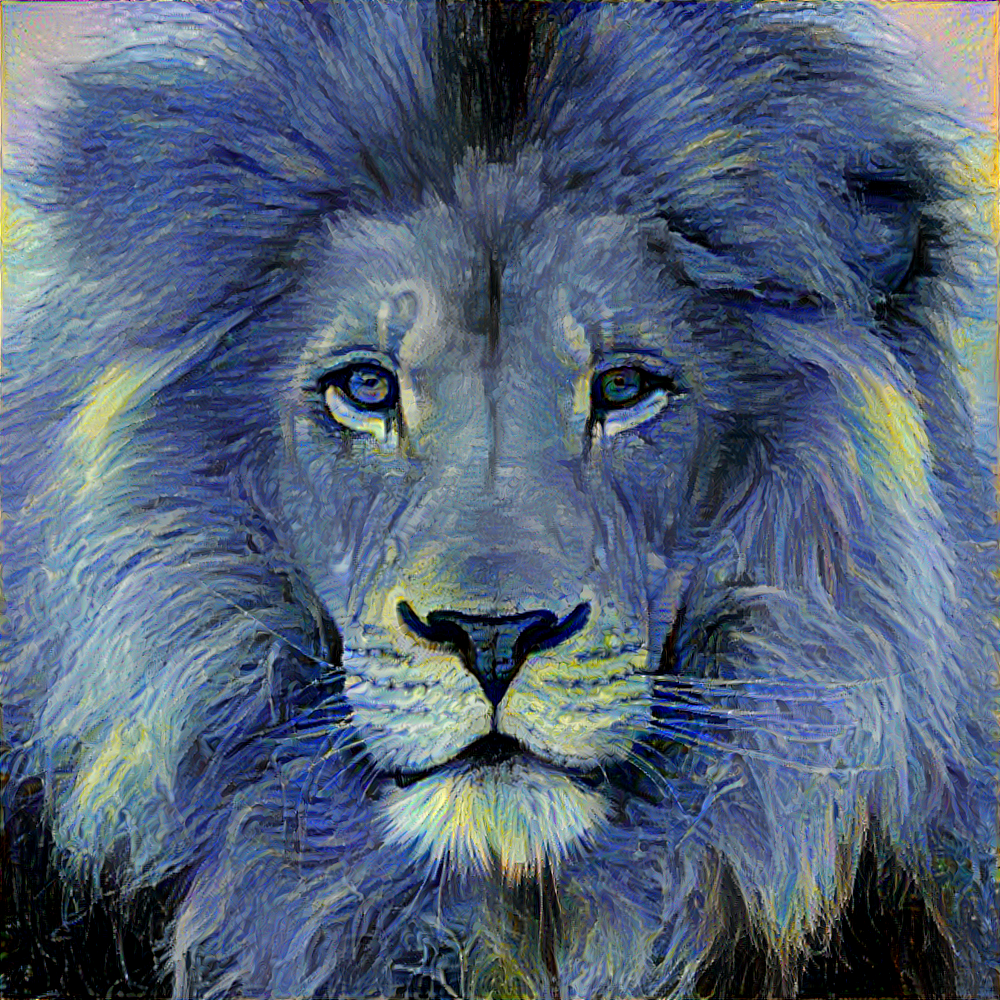
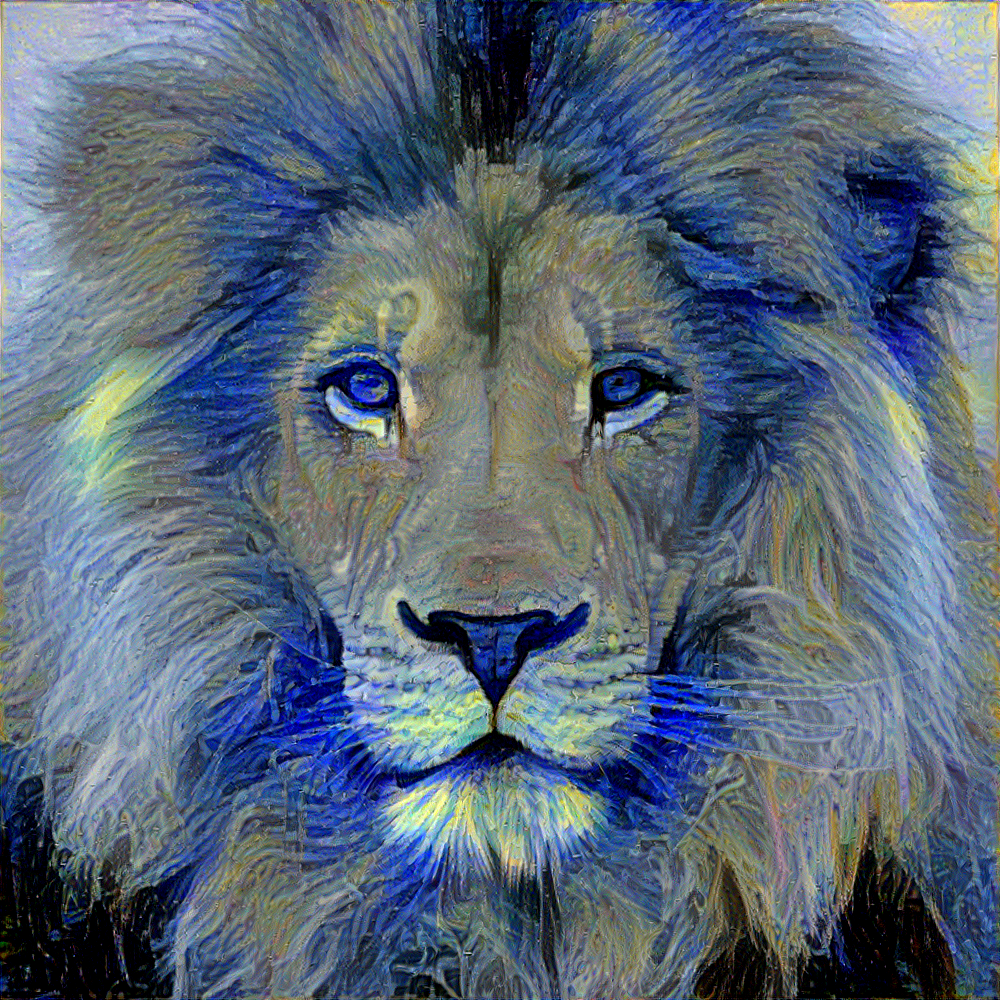
lr 10 results

diff --git a/neural_style.py b/neural_style.py
@@ -1,4 +1,4 @@
-import tensorflow as tf
+import tensorflow.compat.v1 as tf
 import numpy as np 
 import scipy.io  
 import argparse 
@@ -7,7 +7,6 @@ import errno
 import time                       
 import cv2
 import os
-import tensorflow
 '''
   parsing and configuration
 '''
